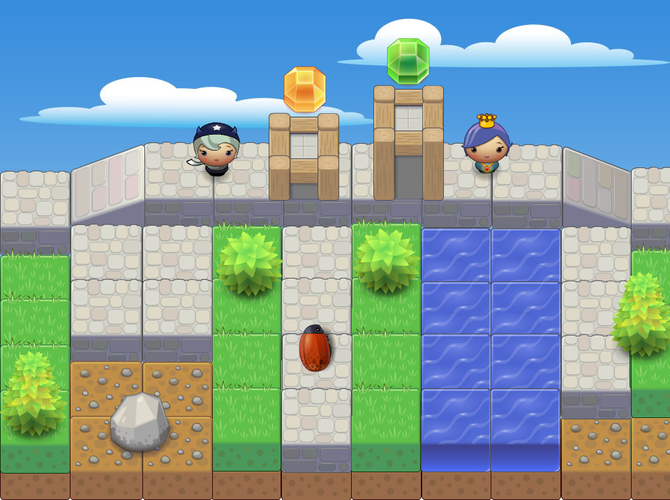
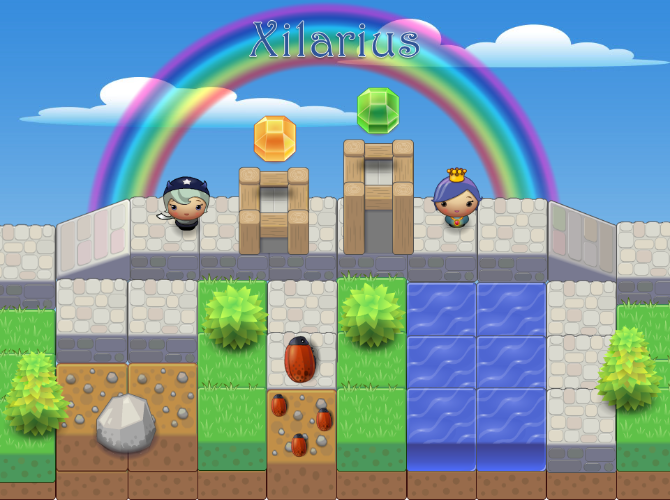
Cambio de background
Cambio de background y reacomodo de elementos

diff --git a/main.py b/main.py
@@ -389,7 +389,7 @@ def Start_game():
     #pygame.mixer.music.play(-1,0.0)
     on_game = True
     on_initial = False
-    Frame = StaticFrame(Window, colour = const.Pblue, header = False, bordercolor = const.Pgreen, borderwidth = 5, width = 229, height = 480)
+    Frame = StaticFrame(Window, colour = const.Pblue, header = False, bordercolor = const.Pgreen, borderwidth = 5, width = 235, height = 485)
     Frame.place((421, 0))
     #For maze initialization
     mymaze = maze(16, 19)
@@ -590,9 +590,9 @@ while True:
         
     elif(on_initial):
         ## Main page
-        Window.fill(const.black) 
+        Window.fill(const.black)
         start_button= Button(Window, text = "Iniciar! ", width = 95, height = 30, bordercolor = const.Porange, colour = const.yellow, fontsize = 18, target = Start_game)
-        start_button.place((545, 6))
+        start_button.place((565, 6))
 		## Background image
         img = image.load(const.imagespath+"Main_Background.png").convert_alpha()
         img.set_colorkey(RLEACCEL)
@@ -601,12 +601,12 @@ while True:
 		## Character
         img = image.load(const.imagespath+"Character_boy_Large.png").convert_alpha()
         img.set_colorkey(RLEACCEL)
-        rect = Rect((-10,70), (101, 171))
+        rect = Rect((-10,115), (101, 171))
         Window.blit(img, rect)
         ## Bubble message
         img = image.load(const.imagespath+"bubble.png").convert_alpha()
         img.set_colorkey(RLEACCEL)
-        rect = Rect((80,20), (101, 171))
+        rect = Rect((75,70), (101, 171))
         Window.blit(img, rect)
         # TODO Dibujar el resto de la pantalla
         render_widgets()
